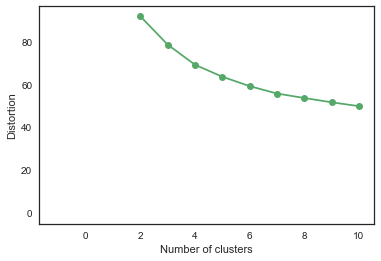
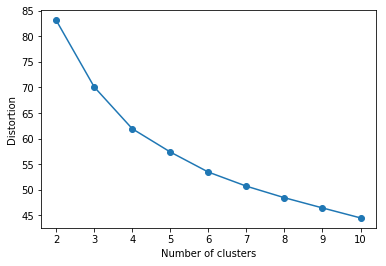
Task_03 (Rev. 2)
Refactor source file.
Dataframe of pandas object library to store data.
Review of the README.md file.
Images of the new graphics obtained.
----
New changes in Task_02 folder.

diff --git a/task_03/task_03.py b/task_03/task_03.py
@@ -1,104 +1,141 @@
 # -*- coding: utf-8 -*-
 
 
-import codecs
-from sklearn import preprocessing 
-from sklearn.decomposition import PCA
+import csv
+
 import matplotlib.pyplot as plt
+import numpy as np
+import pandas as pd
+from sklearn.decomposition import PCA
+from sklearn import preprocessing 
 from sklearn.cluster import KMeans
 from sklearn import metrics
-import numpy as np
+
 
 
 
 ## Function for load data except Outliers
-def load_data(file, outliers):
-    f = codecs.open(file, "r", "utf-8")
-    features_name = []
-    features_data = []
-    count = 0
-    for line in f:
-        if (count > 0 and (count not in outliers)): 
-		# remove double quotes
-		row = line.replace ('"', '').split(",")
-		
-		if row != []:
-			features_data.append(map(float, row))
-        else:
-           features_name = line.replace ('"', '').split(",")
-        count += 1
- 
-   
-    return features_data, features_name
-
-## Function for nomralization with MinMax algorithm
-def normalization_with_MinMax(data):
-    min_max_scaler = preprocessing.MinMaxScaler()
+def exclude_features(data, excludes_list):
+    index_range = range(0, len(excludes_list))
+    excludes_list.sort()    
+    data_aux = data
     
-    return  min_max_scaler.fit_transform(data)    
+    for i in index_range:
+        data_aux.pop(excludes_list[i]-i)
+        
+    return data_aux
+
+def load_data(file, city, range_years, features_not_included):
+    f = open(file, 'rt')
+    data = []
+    heads = []
+    
+    try:
+        reader = csv.reader(f)
+        
+        for row in reader:
+            newcity = row[0]
+            if newcity == 'city':
+                heads.append(exclude_features(row, features_not_included))
+                
+            elif newcity == city:
+                if ( int(row[1]) in range_years ):
+                    example = exclude_features(row, features_not_included)
+                    data.append(example)
 
 
+    finally:
+        f.close()
+        
+        df = pd.DataFrame.from_records(data, columns = heads)
+        df = df.replace('', np.nan, regex=True)
+        
+        
+    return df
 
 
-# 0. Load data.
-    # The outliers are 21 and 38 
-data, labels = load_data("../data/dengue_pivot_mean.csv", [20, 37])
+def normalization_with_minmax(data):
+    
+    min_max_scaler = preprocessing.MinMaxScaler()
+        
+    return min_max_scaler.fit_transform(data.dropna().values)    
 
-# 1. Data normalization
-data_normalizated = normalization_with_MinMax(data)
-
-# 2. Principal Component Analysis
-estimator = PCA (n_components = 2)
-X_pca = estimator.fit_transform(data_normalizated)
-
-plt.plot(X_pca[:,0], X_pca[:,1],'x')
-
-# 3. Setting parameters (ad-hoc)
-
-# parameters
-methods = ["random", "k-means++"]
-init = methods[0] # initialization method 
-iterations = 10 # to run 10 times with different random centroids to choose the final model as the one with the lowest SSE
-max_iter = 300 # maximum number of iterations for each single run
-tol = 1e-04 # controls the tolerance with regard to the changes in the within-cluster sum-squared-error to declare convergence
-random_state = 0 # random
+def pca(data):
+    estimator = PCA (n_components = 2)
+    X_pca_ = estimator.fit_transform(data)
+    
+    return estimator, X_pca_
 
 
-distortions = []
-silhouettes = []
+def main():
+    # 0. Load data
+    years = range(2004, 2011)
+    excludes = range(0, 4)
+    data = load_data(
+            "../data/dengue_features_train.csv",
+            'sj',
+            years,
+            excludes)
+    #  --> Excluded Outliers
+    data.drop(data.index[[21,58]], inplace = True)   
+    
+    
+    # 1. Data normalization
+    data_normalizated = normalization_with_minmax(data)
 
-for i in range(2, 11):
-    km = KMeans(i, init, n_init = iterations ,max_iter= max_iter, tol = tol,random_state = random_state)
-    labels = km.fit_predict(data_normalizated)
-    distortions.append(km.inertia_)
-    silhouettes.append(metrics.silhouette_score(data_normalizated, labels))
+    # 2. Principal Component Analysis
+    estimator, X_pca = pca(data_normalizated)
+    #plt.plot(X_pca[:,0], X_pca[:,1],'x')
+    
+    
+    # 3. Setting parameters (ad-hoc)
+    
+    # parameters
+    
+    init = 'k-means++' # initialization method 
+    iterations = 10 # to run 10 times with different random centroids to choose the final model as the one with the lowest SSE
+    max_iter = 300 # maximum number of iterations for each single run
+    tol = 1e-04 # controls the tolerance with regard to the changes in the within-cluster sum-squared-error to declare convergence
+    random_state = 0 # random
+    
+    
+    distortions = []
+    silhouettes = []
+    
+    for i in range(2, 11):
+        km = KMeans(i, init, n_init = iterations ,max_iter= max_iter, tol = tol,random_state = random_state)
+        labels = km.fit_predict(data_normalizated)
+        distortions.append(km.inertia_)
+        silhouettes.append(metrics.silhouette_score(data_normalizated, labels))
+    
+    # 4. Plot results to know which K set
+    # Plot distoritions
+    plt.plot(range(2,11), distortions, marker='o')
+    plt.xlabel('Number of clusters')
+    plt.ylabel('Distortion')
+    plt.show()
 
-# 4. Plot results to know which K set
-
-# Plot distoritions
-plt.plot(range(2,11), distortions, marker='o')
-plt.xlabel('Number of clusters')
-plt.ylabel('Distortion')
-plt.show()
-
-# Plot Silhouette
-plt.plot(range(2,11), silhouettes , marker='o')
-plt.xlabel('Number of clusters')
-plt.ylabel('Silohouette')
-plt.show()
+    # Plot Silhouette
+    plt.plot(range(2,11), silhouettes , marker='o')
+    plt.xlabel('Number of clusters')
+    plt.ylabel('Silohouette')
+    plt.show()
 
       
-# Set K value
-k = 2
+    # Set K value
+    k = 2
 
 
-### 5. Execute clustering 
-km = KMeans(k, init, n_init = iterations ,max_iter= max_iter, tol = tol,random_state = random_state)
-labels = km.fit_predict(data_normalizated)
+    ### 5. Execute clustering 
+    km = KMeans(k, init, n_init = iterations ,max_iter= max_iter, tol = tol,random_state = random_state)
+    labels = km.fit_predict(data_normalizated)
 
 
-### 6. Plot the results
-plt.scatter(X_pca[:,0], X_pca[:,1], c=labels)
-plt.grid()
-plt.show()
+    ### 6. Plot the results
+    plt.scatter(X_pca[:,0], X_pca[:,1], c=labels)
+    plt.grid()
+    plt.show()
 
+
+if __name__ == '__main__':
+	main()

diff --git a/task_02/task_02.py b/task_02/task_02.py
@@ -26,9 +26,6 @@ def load_data(file, city, range_years, features_not_included):
     data = []
     heads = []
     
-    #total_in = 0
-    #total_out = 0
-    
     try:
         reader = csv.reader(f)
         
@@ -39,16 +36,9 @@ def load_data(file, city, range_years, features_not_included):
                 
             elif newcity == city:
                 if ( int(row[1]) in range_years ):
-                    
-                    #if not ('' in row):
-                        # No include 'city' column (feature) and 
-                        # rows whit any empty feature
                     example = exclude_features(row, features_not_included)
                     data.append(example)
-                    #total_in += 1
-                    #else:
-                        #example = 
-                        #total_out += 1
+
 
     finally:
         f.close()
@@ -56,9 +46,6 @@ def load_data(file, city, range_years, features_not_included):
         df = pd.DataFrame.from_records(data, columns = heads)
         df = df.replace('', np.nan, regex=True)
         
-        #print(total_in)
-        #print(total_out)
-        #print(total_in + total_out)
         
     return df
 
@@ -66,7 +53,7 @@ def load_data(file, city, range_years, features_not_included):
 def normalization_with_minmax(data):
     
     min_max_scaler = preprocessing.MinMaxScaler()
-    
+        
     return min_max_scaler.fit_transform(data.dropna().values)    
 
 def pca(data):
@@ -85,7 +72,6 @@ def main():
             'sj',
             years,
             excludes)
-
     
     # 1. Data normalization
     data_normalizated = normalization_with_minmax(data)
@@ -122,7 +108,11 @@ def main():
     #   4. plot
     colors = np.array([x for x in 'bgrcmykbgrcmykbgrcmykbgrcmyk'])
     colors = np.hstack([colors] * 20)
-    numbers = np.arange(len(X_pca))
+    
+    data_aux = data
+    
+    
+    numbers = data_aux.dropna().index
     fig, ax = plt.subplots()
         
     for i in range(len(X_pca)):
@@ -143,6 +133,7 @@ def main():
     
     data_aux = data
     data_droped = data_aux.dropna()
+    data_droped.to_csv('../data/data_droped.csv', sep='\t')
     
     features = data_droped.transpose();
 
@@ -178,6 +169,7 @@ def main():
     # http://docs.scipy.org/doc/scipy-0.14.0/reference/generated/scipy.cluster.hierarchy.dendrogram.html
     cluster.hierarchy.dendrogram(clusters, color_threshold = 3, labels = names, leaf_rotation=90)
     plt.show()
+
 
 if __name__ == '__main__':
 	main()

diff --git a/task_03/README.md b/task_03/README.md
@@ -1,23 +1,26 @@
 # Task 03
 
-# Load data
+## Load data
 
-At the begining we load data, but removing outliers to avoid to take bad decisions and clean data. Our outliers are 21 and 38.
+At the begining we load data, but removing outliers to avoid to take bad decisions and clean data. Our outliers are 21 and 58.
 
-# Normalization and the K choice
+## Normalization and the K choice
 
 After load of data we normalize with 'MinMaxScaler' algorithm.
 
 We use the PCA to display data looking for the best value of the K. It has been calculated with the silohouettes coefficient, taking normalize data.
 
 We have tested method random and method k++, but we can observe few changes. Due to it we chose k++ methopd because this algorithm observe better data than random method, and takes better decisions.
+
 Observing silohouette graphic we chose K=2, it is due to silhouette coefficiente takes the maximum value.
+
 ![Distortion][1]  ![Silohouette][2]
 
 
-# Execute clustering (k-means)
+## Execute clustering (k-means)
 
 After all, with the k=2, we plotted the points visualizing them in two dimensions. We can observe that two cluster has been created. When we calculate features average, we can see that total precipitation is bigger in the group 1 than the second group.
+
 ![KMeans Groups][3]
 
 [1]:

diff --git a/task_02/README.md b/task_02/README.md
@@ -19,7 +19,7 @@ We have identified 5 different groups as result of operation we realize in the t
   * Group 2: Inconclusive. (Maybe bad measures)
   * Group 3: Low precipitation.
   * Group 4: We should look for motive because elements belong with the last weeks of April and May.
-  * Group 5: Outliers
+  * Group 5: Outliers.
 
 ## [Optional] Execute the hierarchical clustering algorithm using feature as elements. Extract some conclusions.
 The same sequence of steps is carried out after transposition of the matrix. The following dendrogram and scatter plot are obtained.
